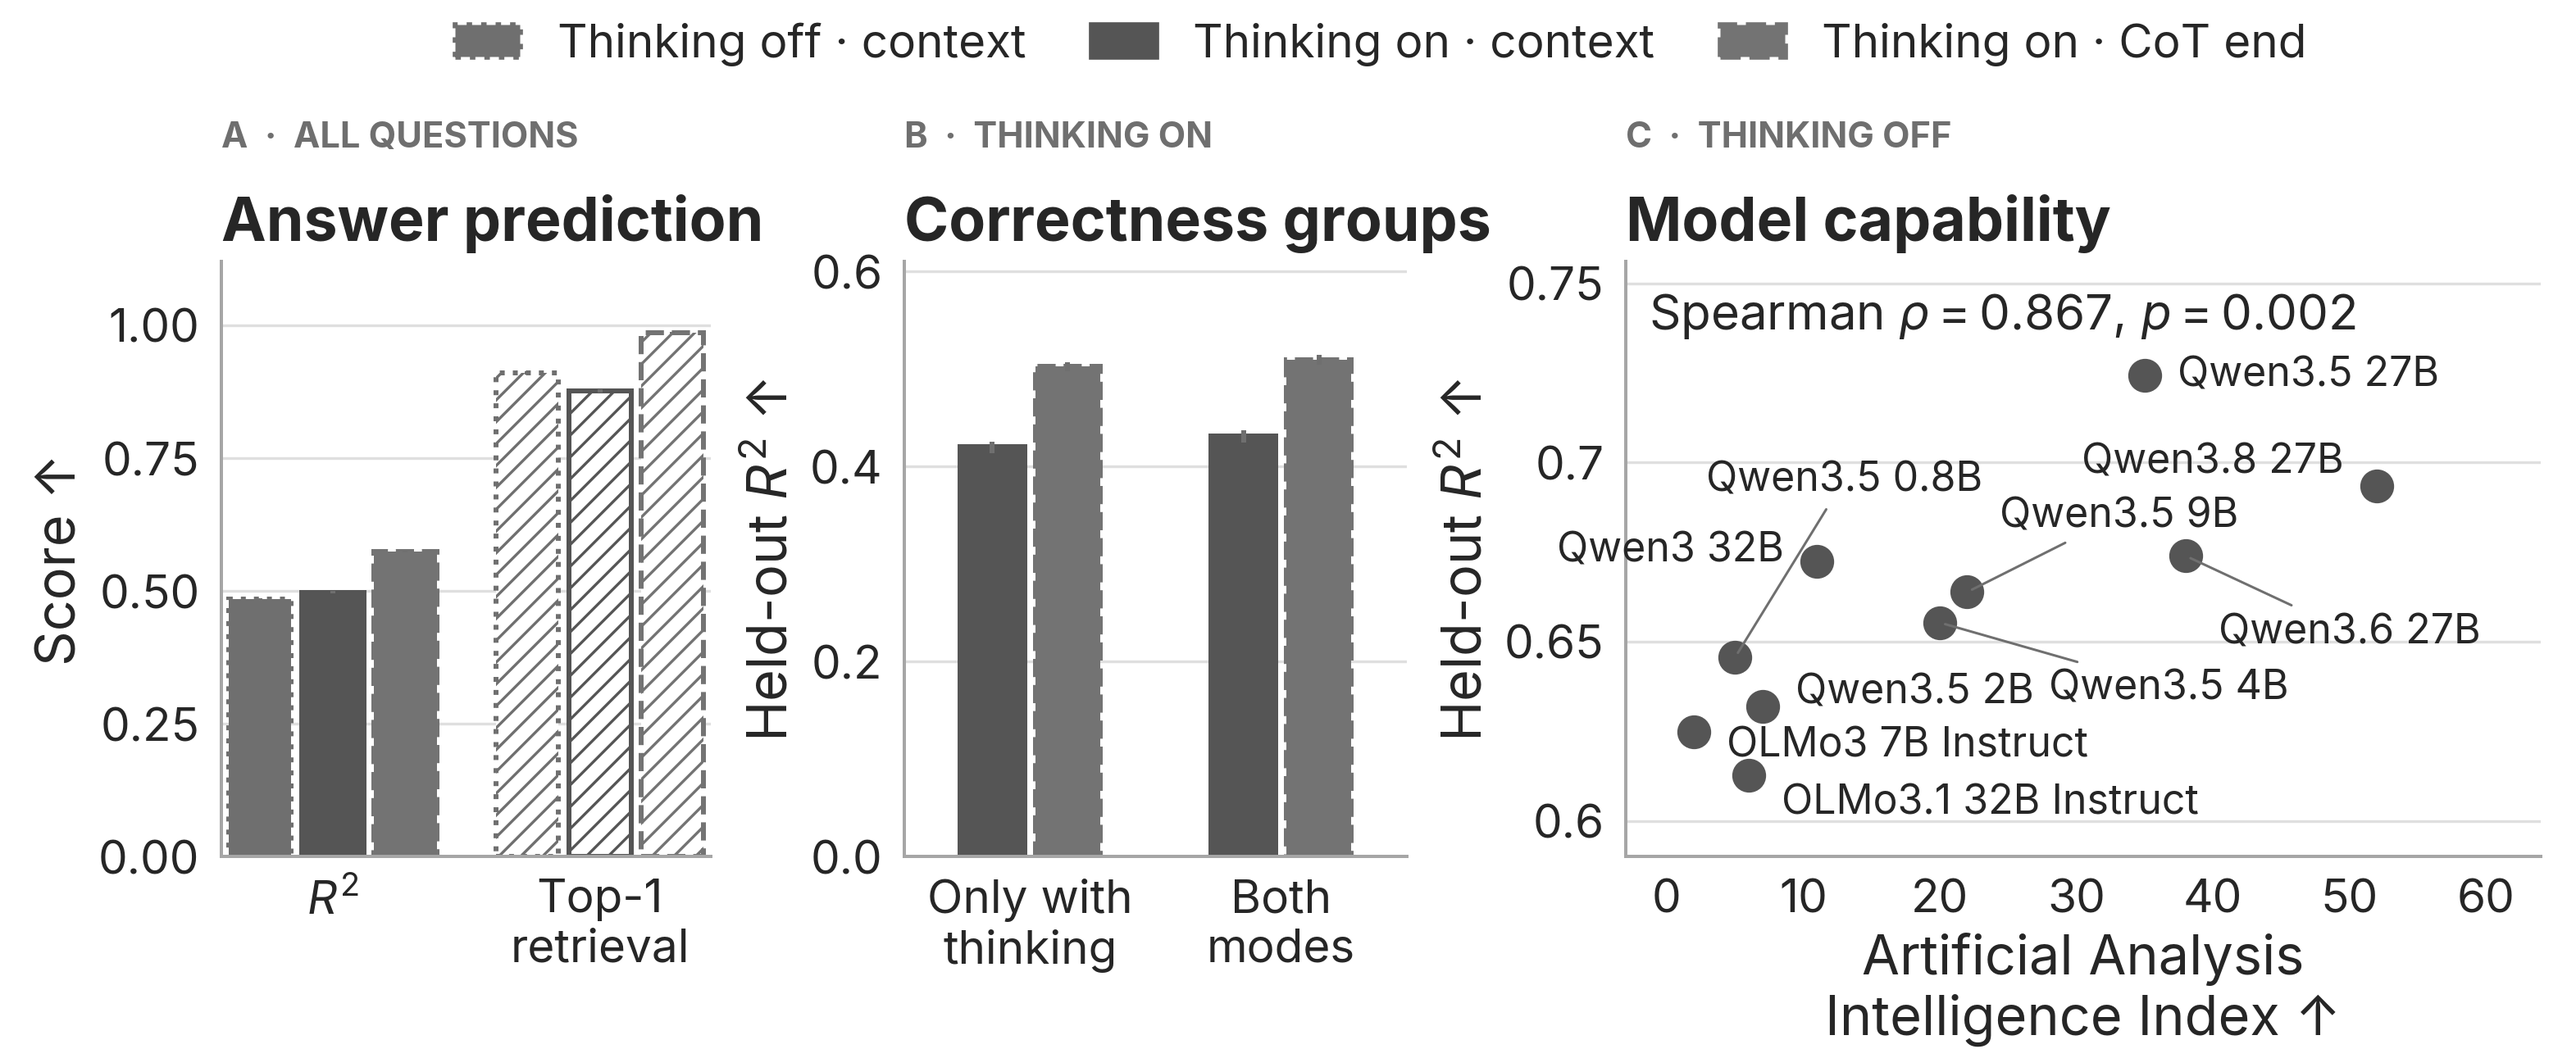
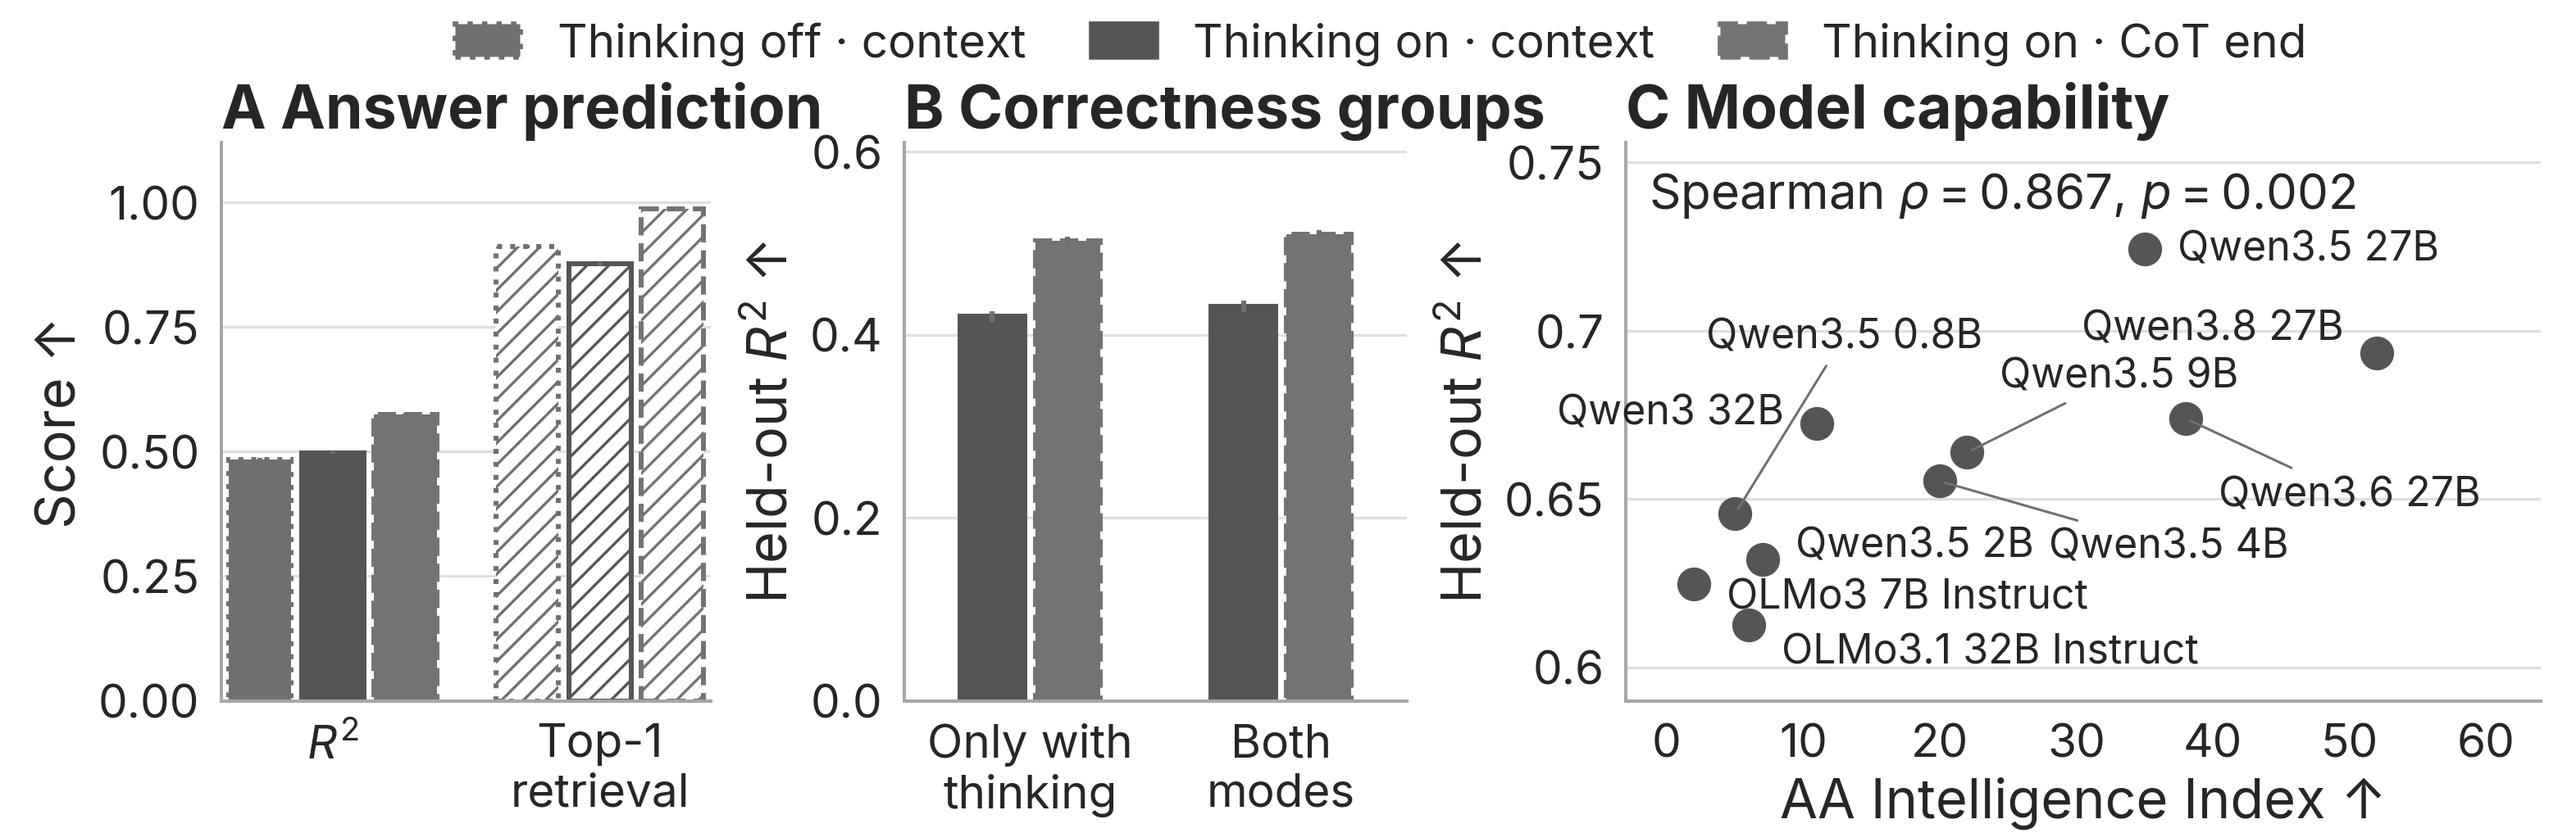
Shorten Figure 5 with single-line panel headings

diff --git a/scripts/paper_fig_cot_capability.py b/scripts/paper_fig_cot_capability.py
@@ -91,7 +91,7 @@ def draw_prediction(ax, data):
     ax.set_yticks([0, 0.25, 0.5, 0.75, 1.0])
     ax.set_ylabel(better_label("Score"))
     style_axis(ax)
-    panel_header(ax, "A", "All questions", "Answer prediction", kicker_y=1.18, title_y=1.035)
+    panel_header(ax, "", "", "A Answer prediction", kicker_y=1.025, title_y=1.025)
 
 
 def draw_correctness(ax, data):
@@ -119,7 +119,7 @@ def draw_correctness(ax, data):
     ax.set_yticks([0, 0.2, 0.4, 0.6])
     ax.set_ylabel(better_label(r"Held-out $R^2$"))
     style_axis(ax)
-    panel_header(ax, "B", "Thinking on", "Correctness groups", kicker_y=1.18, title_y=1.035)
+    panel_header(ax, "", "", "B Correctness groups", kicker_y=1.025, title_y=1.025)
 
 
 def draw_capability(ax, data):
@@ -132,7 +132,7 @@ def draw_capability(ax, data):
     ax.set_yticks([0.60, 0.65, 0.70, 0.75])
     ax.set_xlim(-3, 64)
     ax.set_xticks([0, 10, 20, 30, 40, 50, 60])
-    ax.set_xlabel(better_label("Artificial Analysis\nIntelligence Index"))
+    ax.set_xlabel(better_label("AA Intelligence Index"))
     ax.set_ylabel(better_label(r"Held-out $R^2$"))
     role = ROLES["linear"]
     ax.scatter(
@@ -169,7 +169,7 @@ def draw_capability(ax, data):
         transform=ax.transAxes,
         va="top",
     )
-    panel_header(ax, "C", "Thinking off", "Model capability", kicker_y=1.18, title_y=1.035)
+    panel_header(ax, "", "", "C Model capability", kicker_y=1.025, title_y=1.025)
 
 
 def main():
@@ -178,11 +178,11 @@ def main():
     source = json.loads(raw)
     cot, capability = [source[key]["data"] for key in ("cot", "capability")]
     set_c2a_style()
-    fig, frac = c2a_figure("full", aspect=0.42)
+    fig, frac = c2a_figure("full", aspect=0.35)
     axes = [
-        fig.add_axes([0.080, 0.19, 0.190, 0.55]),
-        fig.add_axes([0.345, 0.19, 0.195, 0.55]),
-        fig.add_axes([0.625, 0.19, 0.355, 0.55]),
+        fig.add_axes([0.080, 0.20, 0.190, 0.62]),
+        fig.add_axes([0.345, 0.20, 0.195, 0.62]),
+        fig.add_axes([0.625, 0.20, 0.355, 0.62]),
     ]
     fig.legend(
         handles=[
@@ -224,10 +224,9 @@ def main():
         "panel_mapping": {"A": "cot.A", "B": "cot.B", "C": "capability"},
         "layout": "One horizontal row: CoT prediction, correctness groups, model capability",
         "changes": (
-            "Single-row layout, compact headings, and relocated model labels; "
-            "bar-value text omitted from narrow panels. The plotted-model count comes off "
-            "the panel C kicker because the caption states it. "
-            "All estimates and intervals preserved."
+            "Single-row layout with one-line panel headings and tighter vertical spacing. "
+            "Panel C uses AA Intelligence Index, expanded in the caption. "
+            "All estimates, intervals, model labels, and font sizes preserved."
         ),
         "maps_refit": False,
         "render": exported["record"],

diff --git a/docs/paper_context_answer_map/ai_use_log.md b/docs/paper_context_answer_map/ai_use_log.md
@@ -103,3 +103,4 @@ programmatically, never generated from model memory.
 | 2026-09-11 | Codex combined the two main CoT panels with the predictability-versus-capability scatter in one three-panel figure at Thomas's request, updated the shared caption and panel references, and retained the original plotted data. [Overleaf](https://www.overleaf.com/project/6a59c927290f8b8b5eee0055), 5d86593d6b0aac87c9904f40a5f4d97016095ac2. | All six underlying source artifacts were hash-verified; ten bars, ten intervals, and ten model coordinates match the originals exactly. Independent review passed after improving numeric-label spacing. Color, grayscale, and manuscript layouts were inspected. The manuscript compiled with no new unresolved references; its existing appendix fig:element-shifts warning remains. Concurrent author edits were preserved through rebase, and the fast-forward Overleaf push was verified. |
 | 2026-09-11 | Codex shortened the merged CoT/capability figure at Thomas's request by reducing panel heights and vertical gaps. [Overleaf](https://www.overleaf.com/project/6a59c927290f8b8b5eee0055), 86f82acce86b80707fd76e3c2f98b858711b6abd. | Exported height decreased from 9.920 to 7.645 authoring inches (22.9%) with the width, font sizes, plotted values, and intervals preserved. Label/header overlap checks and Ruff passed; the compiled manuscript layout was inspected. The existing unrelated appendix reference warning remains. The fast-forward Overleaf push was verified. |
 | 2026-09-11 | Codex placed all three CoT/capability panels side by side after Thomas clarified the intended layout. [Overleaf](https://www.overleaf.com/project/6a59c927290f8b8b5eee0055), 21cf71728954d499baf8bcb8b75166b247cee755. | The aligned single-row figure retains every plotted value, interval, and model name. Numeric bar labels were omitted to fit the narrower panels; model labels use smaller text and leader lines. Source equality, label/point overlap checks, Ruff, and manuscript compilation passed. The page was visually inspected; concurrent author edits were preserved, and the fast-forward Overleaf push was verified. |
+| 2026-09-11 | Codex shortened Figure 5 with single-line panel headings, tighter vertical spacing, and an AA Intelligence Index axis label expanded in the caption. [Overleaf](https://www.overleaf.com/project/6a59c927290f8b8b5eee0055), 95e43de6f184078909796eba38ecb59683263990. | Exported height decreased from 5.335 to 4.241 authoring inches (20.5%) at unchanged width and font sizes. Plotted-source equality and Ruff passed. Color, grayscale, and the compiled manuscript page were visually inspected. The final manuscript has no undefined references or citations, and the fast-forward Overleaf push was verified. |
